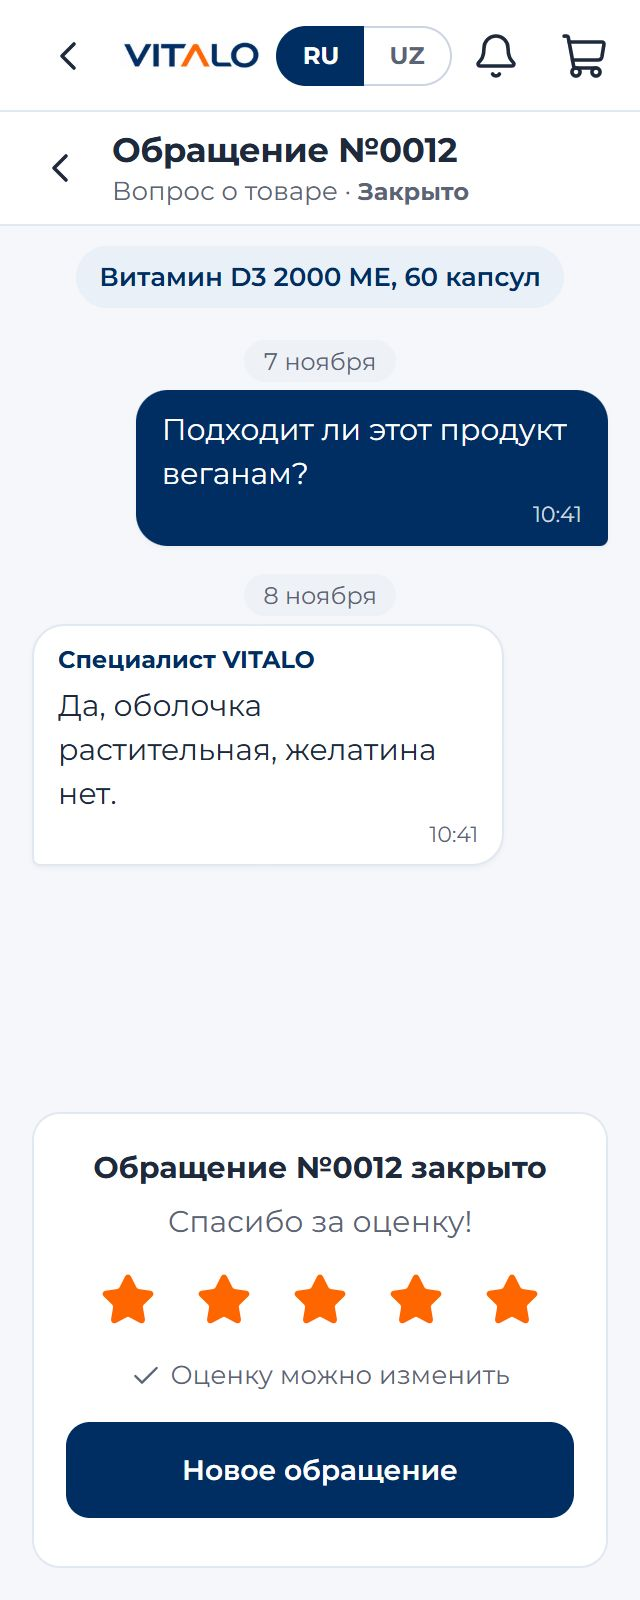
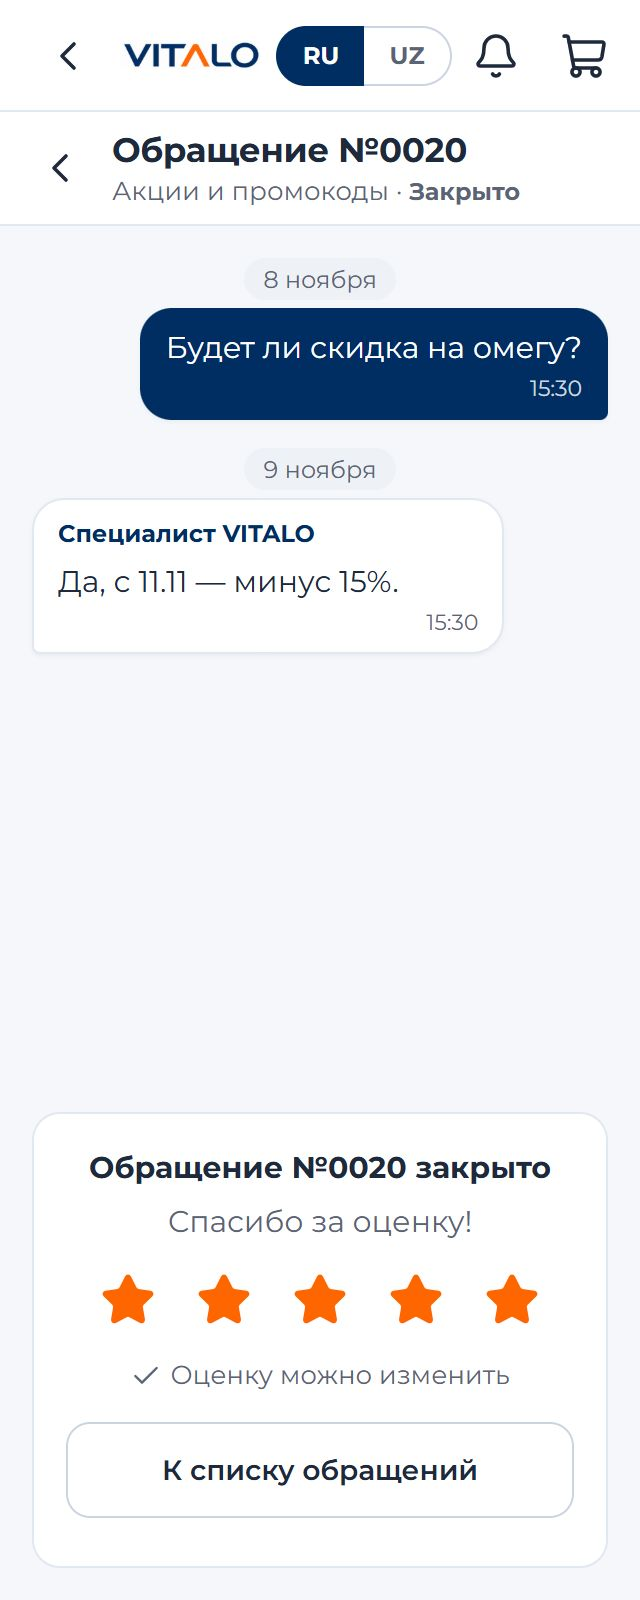
6б-Б (правки владельца): покупатель сам закрывает обращение, после закрытия — к списку, Telegram сверху
- API: POST /support/threads/:id/close — покупатель закрывает обращение после ответа магазина
  (до ответа 409 THREAD_NOT_ANSWERED); в админке «закрыл: покупатель»;
- Mini App: над строкой ввода «Вопрос решён? [Закрыть обращение]» (с подтверждением);
  в закрытом обращении — звёзды и «К списку обращений» вместо «Новое обращение»;
  «Поддержка»: маленькая кнопка «Telegram» в строке заголовка вместо кнопки под списком;
  в списке статус перенесён к дате (номер не обрезается на 320 px);
- тесты: polish-d (API e2e, Mini App); скриншоты 6b-B (5-support-top, 6-close-mine, 3-closed).

diff --git a/apps/miniapp/src/screens/Support.tsx b/apps/miniapp/src/screens/Support.tsx
@@ -3,6 +3,7 @@ import { useEffect, useLayoutEffect, useRef, useState } from 'react';
 import { Link, useNavigate, useParams } from 'react-router-dom';
 import { SUPPORT_TEXT_MAX } from '../components/AskSheet';
 import { BackIcon, CheckIcon, SendIcon, StarIcon, SupportIcon } from '../components/Icons';
+import { useConfirm } from '../components/Confirm';
 import { useSheets } from '../components/Sheets';
 import { useSupportUrl } from '../components/Support';
 import { EmptyState, ErrorState, Loading } from '../components/ui';
@@ -51,10 +52,7 @@ export function SupportThreadsList({ source }: { source: string }) {
                   <SupportIcon width={20} height={20} />
                 </span>
                 <span className="centre-text">
-                  <span className="support-row-head">
-                    <strong>{t('support.no', { n: th.number })}</strong>
-                    <span className={`support-status is-${th.status}`}>{t(`support.status.${th.status}`)}</span>
-                  </span>
+                  <strong>{t('support.no', { n: th.number })}</strong>
                   <span className="hint small">
                     {t(`ask.topic.${th.topic}`)}
                     {about ? ` · ${about}` : ''}
@@ -63,7 +61,10 @@ export function SupportThreadsList({ source }: { source: string }) {
                     {last?.author === 'customer' && <span className="hint">{t('support.you')}: </span>}
                     {last?.text}
                   </span>
-                  <span className="hint small">{dateTime(th.last_message_at, lang)}</span>
+                  {/* the status next to the date: the number never gets cut on a 320 px screen */}
+                  <span className="hint small">
+                    <span className={`support-status is-${th.status}`}>{t(`support.status.${th.status}`)}</span> · {dateTime(th.last_message_at, lang)}
+                  </span>
                 </span>
                 {!!th.unread && <span className="centre-dot" aria-label={t('notifications.unread')} />}
               </Link>
@@ -81,12 +82,14 @@ export function SupportList() {
   const telegramUrl = useSupportUrl();
   return (
     <div className="page">
-      <h1>{t('support.listTitle')}</h1>
+      {/* owner, 10.11: Telegram is a small pill at the top, not a stray button under the list */}
+      <div className="support-top">
+        <h1>{t('support.listTitle')}</h1>
+        <button type="button" className="support-telegram" onClick={() => openSupport(telegramUrl)}>
+          <SendIcon width={16} height={16} /> {t('support.telegramShort')}
+        </button>
+      </div>
       <SupportThreadsList source="support_list" />
-      {/* 6б-А: the Telegram account stays only as the last resort */}
-      <button type="button" className="link support-telegram" onClick={() => openSupport(telegramUrl)}>
-        {t('support.telegram')}
-      </button>
     </div>
   );
 }
@@ -117,7 +120,7 @@ export function SupportThreadScreen() {
   const navigate = useNavigate();
   const client = useQueryClient();
   const thread = useSupportThread(id);
-  const { openAsk } = useSheets();
+  const confirm = useConfirm();
   const [text, setText] = useState('');
   const box = useRef<HTMLTextAreaElement>(null);
   const count = thread.data?.messages.length ?? 0;
@@ -161,10 +164,23 @@ export function SupportThreadScreen() {
     },
   });
 
+  // owner, 10.11: the customer may close the request himself once the shop has answered
+  const closeMine = useMutation({
+    mutationFn: () => api<SupportThread>(`/support/threads/${id}/close`, { method: 'POST' }),
+    onSuccess: (th) => {
+      haptic('success');
+      update(th);
+    },
+  });
+  async function onClose() {
+    if (await confirm({ message: t('support.closeConfirm'), ok: t('support.closeMine'), cancel: t('common.cancel') })) closeMine.mutate();
+  }
+
   if (thread.isPending) return <div className="page"><Loading /></div>;
   if (thread.isError) return <ErrorState error={thread.error} onRetry={() => void thread.refetch()} />;
   const th = thread.data;
   const closed = th.status === 'closed';
+  const answered = !closed && th.messages.some((m) => m.author === 'staff');
   const about = th.order ? t('orders.number', { n: orderNo(th.order.number) }) : th.product?.name;
   const aboutPath = th.order ? `/orders/${th.order.id}` : th.product ? `/product/${th.product.id}` : null;
 
@@ -227,11 +243,21 @@ export function SupportThreadScreen() {
               <CheckIcon width={16} height={16} /> {t('support.ratedNote')}
             </span>
           )}
-          <button type="button" className="btn btn-block" onClick={() => openAsk({ source: 'closed_thread', order: th.order, product: th.product })}>
-            {t('support.newRequest')}
-          </button>
+          {/* owner, 10.11: a closed request ends here — a new question is a separate request from the list */}
+          <Link to="/support" className="btn btn-secondary btn-block">
+            {t('support.backToList')}
+          </Link>
         </div>
       ) : (
+        <>
+        {answered && (
+          <div className="chat-resolve">
+            <span>{t('support.resolvedQ')}</span>
+            <button type="button" className="btn btn-secondary btn-sm" disabled={closeMine.isPending} onClick={() => void onClose()}>
+              <CheckIcon width={16} height={16} /> {t('support.closeMine')}
+            </button>
+          </div>
+        )}
         <form
           className="chat-bar"
           onSubmit={(e) => {
@@ -257,6 +283,7 @@ export function SupportThreadScreen() {
             <SendIcon width={20} height={20} />
           </button>
         </form>
+        </>
       )}
     </div>
   );

diff --git a/apps/miniapp/src/polish-d.test.tsx b/apps/miniapp/src/polish-d.test.tsx
@@ -1,8 +1,9 @@
 import { QueryClient, QueryClientProvider } from '@tanstack/react-query';
-import { cleanup, fireEvent, render, screen, waitFor } from '@testing-library/react';
+import { cleanup, fireEvent, render, screen, waitFor, within } from '@testing-library/react';
 import { MemoryRouter, Route, Routes } from 'react-router-dom';
 import { afterEach, beforeEach, describe, expect, it, vi } from 'vitest';
 import { AskSheet } from './components/AskSheet';
+import { ConfirmProvider } from './components/Confirm';
 import { I18nProvider } from './lib/i18n';
 import type { Lang, SupportThread } from './lib/types';
 import { SupportThreadScreen } from './screens/Support';
@@ -34,9 +35,10 @@ beforeEach(() => {
   current = thread;
   vi.stubGlobal('fetch', async (url: string, init: RequestInit = {}) => {
     const json = (b: unknown, status = 200) => new Response(JSON.stringify(b), { status });
-    if (init.method === 'POST') posted.push({ url, body: JSON.parse(init.body as string) });
+    if (init.method === 'POST') posted.push({ url, body: init.body ? JSON.parse(init.body as string) : {} });
     if (url.endsWith('/support/threads') && init.method === 'POST') return json({ ...thread, status: 'open' }, 201);
     if (url.endsWith('/support/threads/t1/messages')) return json({ ...current, status: 'open', messages: [...current.messages, { id: 'm3', author: 'customer', text: 'Спасибо', created_at: '2026-11-09T11:00:00Z' }] }, 201);
+    if (url.endsWith('/support/threads/t1/close')) return json({ ...current, status: 'closed', closed_at: '2026-11-09T12:00:00Z' });
     if (url.endsWith('/support/threads/t1/rating')) return json({ ...current, rating: JSON.parse(init.body as string).rating });
     if (url.endsWith('/support/threads/t1')) return json(current);
     return json([]);
@@ -53,10 +55,12 @@ function show(lang: Lang, ui: React.ReactNode, path = '/') {
     <QueryClientProvider client={client}>
       <MemoryRouter initialEntries={[path]}>
         <I18nProvider lang={lang} setLang={() => undefined}>
+          <ConfirmProvider>
           <Routes>
             <Route path="/" element={ui} />
             <Route path="/support/:id" element={<SupportThreadScreen />} />
           </Routes>
+        </ConfirmProvider>
         </I18nProvider>
       </MemoryRouter>
     </QueryClientProvider>,
@@ -112,14 +116,26 @@ describe('6б-Б: the request as a chat', () => {
     expect(posted.at(-1)).toEqual({ url: expect.stringContaining('/support/threads/t1/messages'), body: { text: 'Спасибо' } });
   });
 
-  it('a closed request: no input, 1–5 stars and «Новое обращение»', async () => {
+  it('a closed request: no input, 1–5 stars, back to the list (no «Новое обращение» inside)', async () => {
     current = { ...thread, status: 'closed', closed_at: '2026-11-09T12:00:00Z' };
     show('ru', null, '/support/t1');
     expect(await screen.findByText('Обращение №0012 закрыто')).toBeTruthy();
     expect(screen.queryByRole('textbox')).toBeNull();
-    expect(screen.getByRole('button', { name: 'Новое обращение' })).toBeTruthy();
+    expect(screen.queryByRole('button', { name: 'Новое обращение' })).toBeNull();
+    expect(screen.getByRole('link', { name: 'К списку обращений' })).toBeTruthy();
     fireEvent.click(screen.getByRole('radio', { name: '5 из 5' }));
     expect(await screen.findByText('Спасибо за оценку!')).toBeTruthy();
     expect(posted.at(-1)).toEqual({ url: expect.stringContaining('/support/threads/t1/rating'), body: { rating: 5 } });
+  });
+
+  it('the shop answered: the customer closes the request himself (after a confirmation), then rates it', async () => {
+    show('ru', null, '/support/t1');
+    expect(await screen.findByText('Вопрос решён?')).toBeTruthy();
+    fireEvent.click(screen.getByRole('button', { name: 'Закрыть обращение' }));
+    const dialog = await screen.findByRole('alertdialog');
+    fireEvent.click(within(dialog).getByRole('button', { name: 'Закрыть обращение' }));
+    await waitFor(() => expect(posted.map((p) => p.url).join()).toContain('/close'));
+    expect(await screen.findByText('Обращение №0012 закрыто')).toBeTruthy();
+    expect(posted.at(-1)?.url).toContain('/support/threads/t1/close');
   });
 });

diff --git a/apps/api/src/support/support.ts b/apps/api/src/support/support.ts
@@ -131,6 +131,20 @@ export class SupportService {
     return this.one(userId, id);
   }
 
+  /**
+   * 6б-Б (owner, 10.11): the customer closes the request himself once the shop has answered — then rates it.
+   * Before any answer of the shop there is nothing to close (409 THREAD_NOT_ANSWERED).
+   */
+  async customerClose(userId: string, id: string) {
+    const t = await this.prisma.support_threads.findFirst({ where: { id, user_id: userId }, include: { messages: { where: { author: 'staff' }, take: 1 } } });
+    if (!t) throw new NotFoundException({ code: 'NOT_FOUND', message: 'Question not found' });
+    if (t.status === 'closed') return this.one(userId, id);
+    if (!t.messages.length) throw new ConflictException({ code: 'THREAD_NOT_ANSWERED', message: 'The shop has not answered yet' });
+    await this.prisma.support_threads.update({ where: { id }, data: { status: 'closed', closed_at: new Date(), closed_by: null } });
+    await this.prisma.analytics_events.create({ data: { user_id: userId, event: 'support_closed_by_customer', props: { thread_id: id, topic: t.topic } } });
+    return this.one(userId, id);
+  }
+
   /** 6б-Б: 1–5 stars after the shop closed the request (may be changed). */
   async rate(userId: string, id: string, rating: number) {
     const t = await this.prisma.support_threads.findFirst({ where: { id, user_id: userId } });
@@ -189,7 +203,7 @@ export class SupportService {
       rating: t.rating,
       started_by: t.started_by,
       closed_at: t.closed_at,
-      closed_by: t.closer?.name ?? null,
+      closed_by: t.closer?.name ?? (t.status === 'closed' ? 'покупатель' : null),
       customer: { name: customerName(t.user), phone: t.user.phone, username: t.user.username },
       product: t.product ? { id: t.product.id, sku: t.product.sku, name: productTitle(t.product, 'ru') } : null,
       order: t.order ? { id: t.order.id, number: t.order.order_number } : null,
@@ -323,6 +337,13 @@ export class SupportController {
   @Post(':id/messages')
   reply(@CurrentAuth() auth: AuthContext, @Param('id', new ParseUUIDPipe()) id: string, @Body() dto: SupportTextDto) {
     return this.support.reply(auth.user.id, id, dto.text);
+  }
+
+  /** 6б-Б: «Закрыть обращение» by the customer (only after the shop answered). */
+  @Post(':id/close')
+  @HttpCode(200)
+  close(@CurrentAuth() auth: AuthContext, @Param('id', new ParseUUIDPipe()) id: string) {
+    return this.support.customerClose(auth.user.id, id);
   }
 
   @Post(':id/rating')

diff --git a/apps/miniapp/src/styles.css b/apps/miniapp/src/styles.css
@@ -1581,7 +1581,23 @@ button.toast-action { border: 0; background: none; font: inherit; font-weight: 7
 .switch:checked::before { transform: translateX(18px); }
 .switch:focus-visible { outline: 2px solid var(--primary); outline-offset: 2px; }
 @media (prefers-reduced-motion: reduce) { .switch, .switch::before { transition: none; } }
-.support-telegram { display: block; margin: 16px auto 0; min-height: var(--tap); }
+/* owner, 10.11: «Поддержка» — the title and a small Telegram pill in one row at the top */
+.support-top { display: flex; align-items: center; justify-content: space-between; gap: 12px; }
+.support-top h1 { margin: 0; }
+.support-telegram {
+  flex: none; position: relative; display: inline-flex; align-items: center; gap: 6px; height: 32px; padding: 0 12px;
+  border: 1px solid var(--border); border-radius: 999px; background: var(--surface); color: var(--primary-text);
+  font: inherit; font-size: 13px; font-weight: 600; cursor: pointer; box-shadow: var(--shadow);
+}
+.support-telegram::after { content: ''; position: absolute; inset: -6px -2px; } /* 44 px tap area */
+.support-telegram:active { background: var(--primary-soft); }
+.support-top { margin-bottom: 16px; }
+/* «Вопрос решён? [Закрыть обращение]» over the input bar, once the shop has answered */
+.chat-resolve {
+  display: flex; align-items: center; justify-content: space-between; gap: 8px; margin: 0 0 8px; padding: 8px 8px 8px 12px;
+  border-radius: var(--radius-sm); background: var(--surface); border: 1px solid var(--border); font-size: 14px;
+}
+.chat-resolve .btn { flex: none; min-height: var(--tap); padding: 0 12px; font-size: 13px; gap: 6px; }
 
 /* ---------- 6б-Б (D-63): the support centre ---------- */
 /* «Спросить специалиста»: the topic as one row; the list opens under it */

diff --git a/apps/api/test/polish-d.e2e-spec.ts b/apps/api/test/polish-d.e2e-spec.ts
@@ -119,5 +119,15 @@ describe('6а-Д: questions to the specialist (e2e)', () => {
     expect(rated.rating).toBe(4);
     const list = (await http().get('/api/staff/support/threads?status=closed').set(bearer(manager)).expect(200)).body;
     expect(list.items.find((t: { id: string }) => t.id === asked.id)).toMatchObject({ rating: 4, order_number: order.order_number });
+
+    // owner, 10.11: the customer closes a request himself — only after the shop answered; then rates it
+    const fresh = (await http().post('/api/support/threads').set(bearer(customer)).send({ topic: 'tech', text: 'Не открывается оплата' }).expect(201)).body;
+    await http().post(`/api/support/threads/${fresh.id}/close`).set(bearer(customer)).expect(409);
+    await http().post(`/api/staff/support/threads/${fresh.id}/reply`).set(bearer(manager)).send({ text: 'Обновите приложение, пожалуйста.' }).expect(200);
+    await http().post(`/api/support/threads/${fresh.id}/close`).set(bearer(stranger)).expect(404);
+    const mine = (await http().post(`/api/support/threads/${fresh.id}/close`).set(bearer(customer)).expect(200)).body;
+    expect(mine).toMatchObject({ status: 'closed', closed_at: expect.any(String) });
+    expect((await http().get(`/api/staff/support/threads/${fresh.id}`).set(bearer(manager)).expect(200)).body.closed_by).toBe('покупатель');
+    await http().post(`/api/support/threads/${fresh.id}/rating`).set(bearer(customer)).send({ rating: 5 }).expect(200);
   });
 });

diff --git a/apps/miniapp/src/lib/i18n.tsx b/apps/miniapp/src/lib/i18n.tsx
@@ -217,6 +217,11 @@ const ru = {
   'support.specialist': 'Специалист VITALO',
   'support.waiting': 'Специалист ответит в рабочее время — мы пришлём уведомление.',
   'support.reply': 'Ваше сообщение',
+  'support.backToList': 'К списку обращений',
+  'support.resolvedQ': 'Вопрос решён?',
+  'support.closeMine': 'Закрыть обращение',
+  'support.closeConfirm': 'Закрыть обращение? Написать в него больше будет нельзя — новый вопрос можно задать отдельным обращением.',
+  'support.telegramShort': 'Telegram',
   'support.no': 'Обращение №{n}',
   'support.newRequest': 'Новое обращение',
   'support.you': 'Вы',
@@ -803,6 +808,11 @@ const uz: Record<MessageKey, string> = {
   'support.specialist': 'VITALO mutaxassisi',
   'support.waiting': 'Mutaxassis ish vaqtida javob beradi — bildirishnoma yuboramiz.',
   'support.reply': 'Xabaringiz',
+  'support.backToList': 'Murojaatlar ro‘yxatiga',
+  'support.resolvedQ': 'Savol hal bo‘ldimi?',
+  'support.closeMine': 'Murojaatni yopish',
+  'support.closeConfirm': 'Murojaat yopilsinmi? Unga boshqa yozib bo‘lmaydi — yangi savolni alohida murojaat bilan berish mumkin.',
+  'support.telegramShort': 'Telegram',
   'support.no': 'Murojaat №{n}',
   'support.newRequest': 'Yangi murojaat',
   'support.you': 'Siz',
